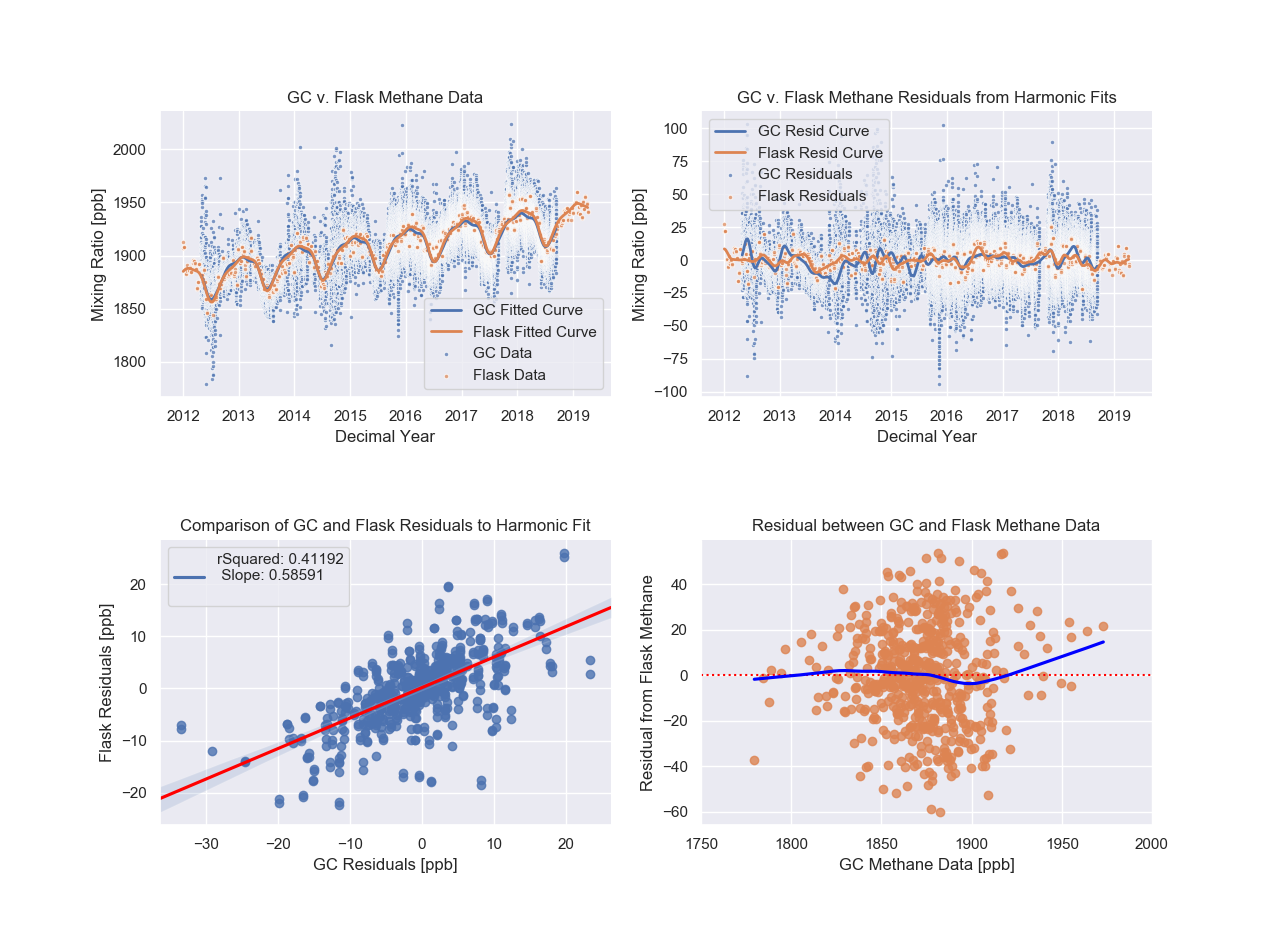
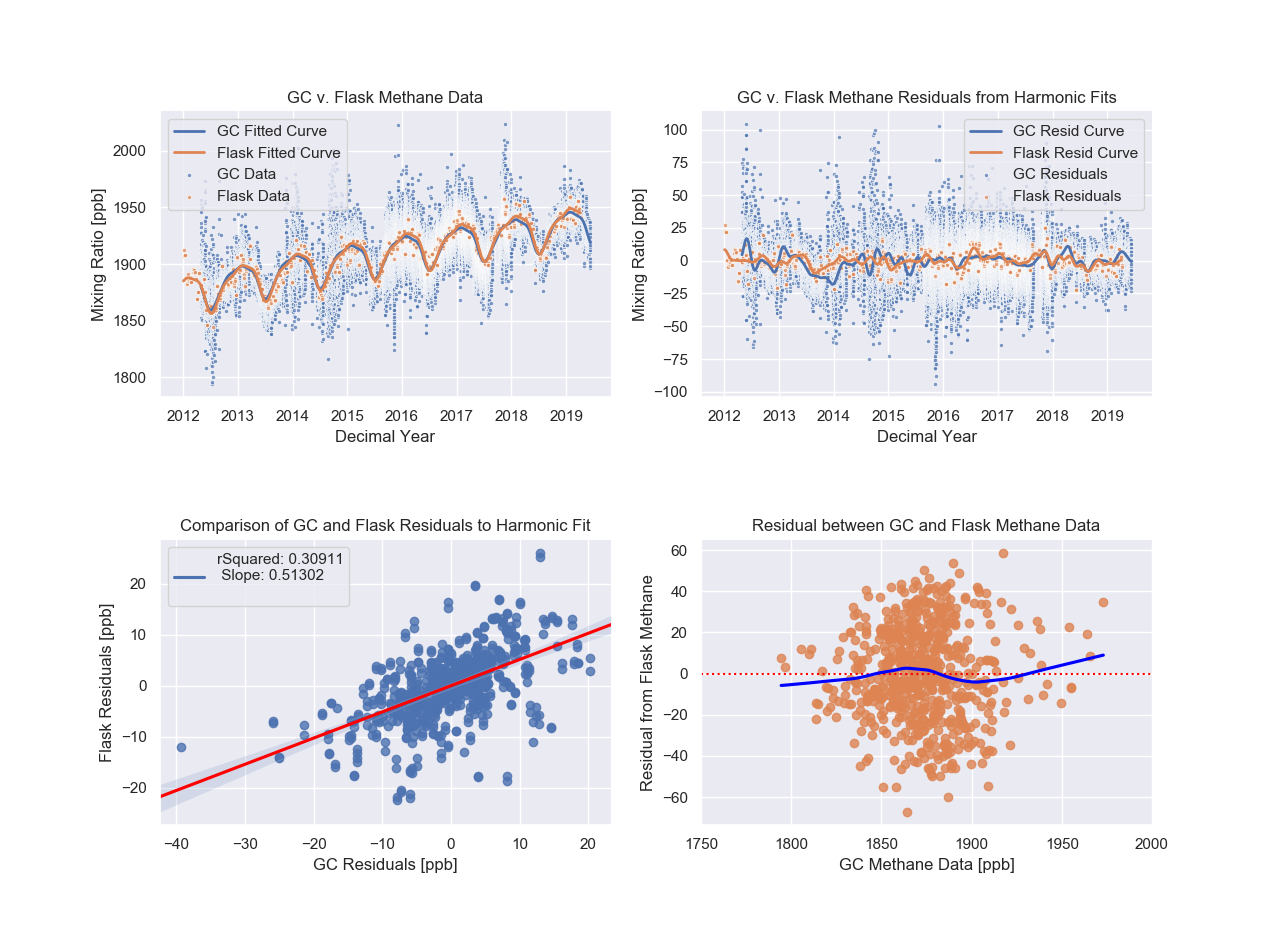
update methane flask and GC comparison with 2019 data

diff --git a/analyses/HarmonicFit/methaneFlaskComparison.py b/analyses/HarmonicFit/methaneFlaskComparison.py
@@ -23,8 +23,9 @@ from sklearn.linear_model import LinearRegression
 start: float = time.time()                                                                         # timer for curiosity
 # Reading in File
 root = r'C:\Users\ARL\Desktop\J_Summit\analyses\HarmonicFit\textFiles'
-arl = pd.read_csv(root + r'\methaneARL.txt', encoding='utf8', delim_whitespace=True)
+arl = pd.read_csv(root + r'\methane.txt', encoding='utf8', delim_whitespace=True)
 flask = pd.read_csv(root + r'\methaneFlask.txt', encoding='utf8', delim_whitespace=True)
+arl.columns = ['date', 'value', 'function', 'residuals', 'smooth_resid']
 print('Data Imported...')
 
 # Graphing with Seaborn -- Setup Subplots
